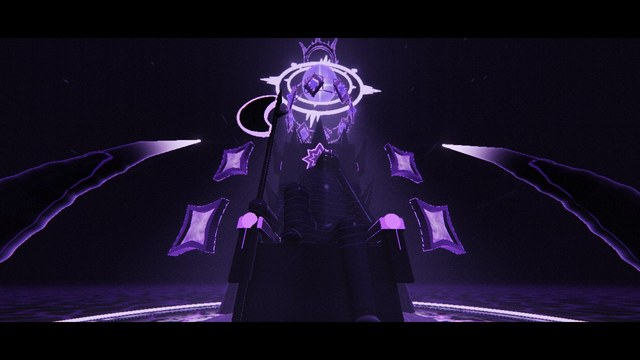
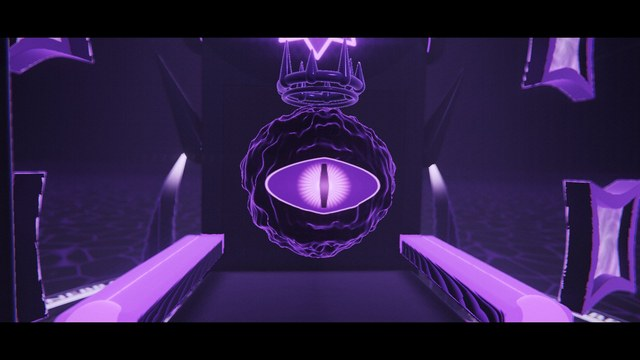
MONARCH: 사람을 빼고 추상적으로 재구성
- 앉은 인물 삭제 → 빈 옥좌 위로 어둠이 모여 검은 공허(잘게 일렁이는 구, 보라 가장자리)가 되고,
  12.6 그 속에서 세로로 찢어진 동공의 보라 눈이 뜨인다(홍채 결 · 과충전 빛). 공허 위에는 작은 왕관이 떠서 돈다
- 도끼는 손 없이 옥좌 곁 단상에 박혀 우뚝 선 기념비로
- 얼굴 클로즈업 → 공허와 눈 클로즈업. 공허는 빛을 먹는다(반사 · 스펙큘러 없음)
- 4K 녹화 12~25ms

diff --git a/public/monarch_gl.html b/public/monarch_gl.html
@@ -15,12 +15,12 @@
 <script>
 "use strict";
 /* ═══════════════════════════════════════════════════════════════
-   MONARCH — 어둠의 옥좌에 앉은 거대한 지배자 (실시간 3D · 대사 없음 · 30초 · 4K 저장)
+   MONARCH — 빈 옥좌의 거대한 지배자, 사람 없이 추상적으로 (실시간 3D · 대사 없음 · 30초 · 4K 저장)
    음원: tools/make_monarch_audio.py 로 직접 합성한 오리지널(합창 · 오르간 · 금관 · 팀파니 · 타이코 · 천둥). 시각 상수 T 는 그 스크립트와 같다.
      0      어둠 — 번개가 금 간 바닥(보라 · 연보라 균열, 바깥의 글자 고리)과 X 자로 놓인 네 개의 거대한 뿔을 비춘다
      4.0    떠 있는 차원문 — 검은 흰자에 보라 눈동자, 눈이 떠져 오른쪽에서 왼쪽으로 훑고 사라진다
-     7.5    발치에서 올려다보며 크레인 업 — 사람보다 훨씬 큰 도끼 · 옥좌 · 앉은 지배자 · 8각 별 문장
-     11.5   얼굴 — 그림자 속에서 오른눈이 보라로 타오른다(번개 · 총주 일격)
+     7.5    발치에서 올려다보며 크레인 업 — 단상에 박혀 우뚝 선 거대한 도끼 · 빈 옥좌 · 8각 별 문장 · 옥좌 위로 어둠이 모이기 시작
+     11.5   검은 공허 — 일렁이는 공허 위에 왕관이 떠 돌고, 12.6 그 속에서 세로로 찢어진 보라 눈이 뜨인다(번개 · 총주 일격)
      14.5   위로 — 반시계로 도는 왕관(8개의 남보라 다이아) → 서로 반대로 도는 두 후광 → 흰 별을 품은 거대한 구슬이 빛의 장막을 내린다
      18.5   땅에서 올려다본 전체 — 100m 가 넘는 지배자, 여섯 뿔 왕관 · 연보라 고리 · 20.5 네 차원문의 눈이 동시에 뜨여 이쪽을 본다
      22.5   권능 — 23.8 충격파가 바닥을 쓸고, 검은 · 보라 번개 폭풍
@@ -40,7 +40,7 @@ const cross = (a, b) => [a[1] * b[2] - a[2] * b[1], a[2] * b[0] - a[0] * b[2], a
 function camera(pos, tgt, roll) { const f = norm(sub(tgt, pos)), r0 = norm(cross(f, [0, 1, 0])), u0 = cross(r0, f), c = Math.cos(roll), s = Math.sin(roll); return { pos, r: [r0[0] * c + u0[0] * s, r0[1] * c + u0[1] * s, r0[2] * c + u0[2] * s], u: [u0[0] * c - r0[0] * s, u0[1] * c - r0[1] * s, u0[2] * c - r0[2] * s], f }; }
 
 const T = { L1: .6, L2: 2.9, PORT: 4.0, EYEO: 5.1, EYEC: 7.0, RISE: 7.5, FACE: 11.5, IGNITE: 12.6, HALO: 14.5, WIDE: 18.5, STARE: 20.5, POWER: 22.5, SHOCK: 23.8, HERO: 26.0, TITLE: 26.6, END: 30.0 };
-const ORB = [0, 76, -6], TC = [0, 0, -3], EYE = [1.13, 34.51, -.8];
+const ORB = [0, 76, -6], TC = [0, 0, -3], VC = [0, 23, -4], EYE = [0, 23, 2.4];
 const PORTS = [[-25, 18, -2], [25, 18, -2], [-25, 38, -7], [25, 38, -7]];
 const BOLTS = [[T.L1, 1], [T.L2, 2], [8.8, 3], [T.IGNITE, 4], [16.2, 5], [T.STARE, 6], [T.SHOCK, 7], [27.4, 8]];
 { const r = rng(99); for (let t = T.POWER + .1; t < T.HERO - .2; t += .18 + r() * .3) BOLTS.push([t, 20 + Math.floor(r() * 900)]); BOLTS.sort((a, b) => a[0] - b[0]); }
@@ -53,7 +53,7 @@ let Wd = 0, Hd = 0, U = 0, DPR = 1, DPR_CAP = 2, SCALE = 1, slow = 0, time = 0, 
 /* ═════════════════ 셰이더 ═════════════════ */
 const FS_SCENE = `#version 300 es
 precision highp float; in vec2 vUv; out vec4 o;
-uniform vec2 uRes; uniform float uT, uFocal, uEyeK, uFlash, uShock, uPower, uCrownA, uHaloA, uTopA, uOrbI, uCrackK; uniform vec3 uCamPos; uniform mat3 uCam; uniform int uZero; uniform vec2 uPort[4]; uniform sampler2D uAtlas;
+uniform vec2 uRes; uniform float uT, uFocal, uEyeK, uVoidK, uFlash, uShock, uPower, uCrownA, uHaloA, uTopA, uOrbI, uCrackK; uniform vec3 uCamPos; uniform mat3 uCam; uniform int uZero; uniform vec2 uPort[4]; uniform sampler2D uAtlas;
 ${CSGL.NOISE}
 const vec3 ORB = vec3(${ORB.join(".,")}.), TC = vec3(0., 0., -3.), ORBC = vec3(.6, .46, 1.), EYEP = vec3(${EYE.join(", ")});
 float gE = 1e9; bool gSh = false;
@@ -69,31 +69,19 @@ float sdRC(vec3 p, vec3 a, vec3 b, float r1, float r2){ vec3 ba = b - a; float l
   if (sign(z) * a2 * z2 > k) return sqrt(x2 + z2) * il2 - r2; if (sign(y) * a2 * y2 < k) return sqrt(x2 + y2) * il2 - r1; return (sqrt(x2 * a2 * il2) + y * rr) * il2 - r1; }
 float sdStarN(vec2 p, float r, float n, float m){ float an = 3.141593 / n, en = 3.141593 / m; vec2 acs = vec2(cos(an), sin(an)), ecs = vec2(cos(en), sin(en)); float bn = mod(atan(p.x, p.y), 2. * an) - an;   // n 각 별
   p = length(p) * vec2(cos(bn), abs(sin(bn))); p -= r * acs; p += ecs * clamp(-dot(p, ecs), 0., r * acs.y / ecs.y); return length(p) * sign(p.x); }
-/* ── 지배자: 앉은 자세(오른다리를 세우고, 왼손으로 머리를 받치고, 오른손엔 도끼) ── */
-float figure(vec3 p){
-  float d = sdEll(p - vec3(0., 15., -4.), vec3(6.5, 3.2, 4.5));
-  d = smin(d, sdRC(p, vec3(0., 16., -4.6), vec3(0., 25.5, -5.), 4.8, 6.), 1.5);
-  d = smin(d, sdEll(p - vec3(0., 24.5, -3.6), vec3(6.6, 4.6, 3.4)), 1.2);
-  d = smin(d, sdCap(p, vec3(.8, 28., -4.6), vec3(1.5, 31.3, -3.9), 1.5), .8);
-  vec3 hq = p - vec3(2., 34., -3.2); hq.xy = rot(-.18) * hq.xy; float hd = sdEll(hq, vec3(2.3, 2.9, 2.6));                                     // 투구: 눈높이의 깊은 틈 · 콧대 · 뺨가리개
-  hd = min(hd, sdRC(hq, vec3(0., 1.9, 2.1), vec3(0., -1.3, 2.75), .42, .22)); hd = smin(hd, sdEll(vec3(abs(hq.x) - 1.3, hq.y + 1.1, hq.z - 1.4), vec3(1., 1.5, 1.2)), .3);
-  hd = min(hd, sdRC(vec3(abs(hq.x), hq.y, hq.z), vec3(1.6, 1.2, 1.7), vec3(2.5, 1.9, .2), .45, .15)); hd = max(hd, -sdBox(hq - vec3(0., .5, 2.4), vec3(2.2, .3, 1.2))); d = smin(d, hd, .35);
-  float pa = min(sdEll(p - vec3(7., 27.6, -4.6), vec3(3.3, 2.4, 3.2)), sdEll(p - vec3(-7., 27.6, -4.6), vec3(3.3, 2.4, 3.2))); d = smin(d, pa, .5);
-  d = smin(d, sdRC(p, vec3(-7.6, 26.6, -4.6), vec3(-10., 17.9, -1.2), 2., 1.6), .8); d = smin(d, sdRC(p, vec3(-10., 17.9, -1.2), vec3(-10.5, 18.4, 5.8), 1.6, 1.3), .6); d = smin(d, sdEll(p - vec3(-10.6, 18.5, 7.), vec3(1.5, 1.4, 1.3)), .5);
-  d = smin(d, sdRC(p, vec3(7.6, 26.6, -4.6), vec3(10.2, 17.9, -1.6), 2., 1.6), .8); d = smin(d, sdRC(p, vec3(10.2, 17.9, -1.6), vec3(4.6, 31.2, -1.6), 1.6, 1.25), .7); d = smin(d, sdEll(p - vec3(4.1, 32.2, -1.5), vec3(1.2, 1.5, 1.1)), .6);
-  d = smin(d, sdRC(p, vec3(3.6, 14.6, -2.), vec3(4.5, 14.8, 7.), 2.6, 2.1), 1.); d = smin(d, sdRC(p, vec3(4.5, 14.8, 7.), vec3(4.8, 4.2, 8.4), 2.1, 1.5), .7); d = smin(d, sdEll(p - vec3(4.9, 3.6, 10.), vec3(1.5, 1., 2.6)), .5);
-  d = smin(d, sdRC(p, vec3(-3.6, 14.6, -2.), vec3(-4.6, 21.6, 5.6), 2.6, 2.1), 1.); d = smin(d, sdRC(p, vec3(-4.6, 21.6, 5.6), vec3(-4.8, 14.5, 4.6), 2.1, 1.5), .7); d = smin(d, sdEll(p - vec3(-4.9, 13.9, 6.2), vec3(1.5, 1., 2.6)), .5);
-  d = smin(d, sdRC(p, vec3(0., 28.5, -7.2), vec3(0., 7., -9.6), 7., 10.), 1.8);                                                            // 등 뒤로 흘러내린 망토
-  float hood = max(sdEll(hq - vec3(0., .5, -.5), vec3(3.3, 3.9, 3.5)), -sdEll(hq - vec3(0., -.3, 1.3), vec3(2.5, 3.1, 3.2))); d = min(d, max(hood, hq.y - 3.2 + .6 * hq.z));   // 두건(앞은 트이고 얼굴은 그 안의 어둠)
-  return d;
-}
-float fcrown(vec3 p){ vec3 q = p - vec3(2.35, 36.7, -3.2); q.xy = rot(-.18) * q.xy; float r = length(q.xz), ring = length(vec2(r - 2.15, q.y)) - .32;   // 머리 위의 왕관
-  float an = atan(q.z, q.x), sc = 6.2832 / 8., a2 = mod(an + sc * .5, sc) - sc * .5; vec3 l = vec3(cos(a2) * r - 2.15, q.y, sin(a2) * r); return min(ring, sdRC(l, vec3(0.), vec3(0., 1.9, 0.), .38, .03)); }
-vec2 axe(vec3 p){ vec3 q = p - vec3(-10.6, 0., 7.);                                                                                         // 한쪽 날 전투 도끼
-  float h = sdCap(p, vec3(-10.6, 2.8, 7.), vec3(-10.6, 47., 7.), .5); h = min(h, length(p - vec3(-10.6, 2.6, 7.)) - .85);
+/* ── 지배자의 현현: 사람 대신, 빈 옥좌 위로 모여드는 검은 공허 · 그 속에서 뜨이는 보라 눈 · 공허 위에 떠 도는 왕관 ── */
+const vec3 VC = vec3(0., 23., -4.);
+float voidSph(vec3 p){ vec3 q = p - VC; float R = 6.2 * uVoidK, lq = length(q); if (R < .05) return lq + 1.;
+  float w = ((noise(q.xy * .9 + vec2(uT * .9, 0.)) + noise(q.yz * 1.1 - vec2(uT * .7)) - 1.) * .55 + (noise(q.xz * 2.3 + uT * 1.4) - .5) * .25) * uVoidK * smoothstep(.3, 1., lq / R);   // 가장자리가 잘게 일렁인다
+  return (lq - R + w) * .7; }
+float vcrown(vec3 p){ float k = max(uVoidK, .02); vec3 q = (p - (VC + vec3(0., 8.4 + .35 * sin(uT * 1.3), 0.))) / k; q.xz = rot(-uT * .5) * q.xz; float r = length(q.xz), ring = length(vec2(r - 3.3, q.y)) - .38;
+  ring = min(ring, length(vec2(r - 3.1, q.y + .9)) - .18); float an = atan(q.z, q.x), sc = 6.2832 / 8., a2 = mod(an + sc * .5, sc) - sc * .5; vec3 l = vec3(cos(a2) * r - 3.3, q.y, sin(a2) * r);
+  float sp = sdRC(l, vec3(0.), vec3(0., mod(floor(an / sc + .5), 2.) < .5 ? 3.2 : 2., 0.), .52, .04); return min(ring, sp) * k; }
+vec2 axe(vec3 p){ vec3 q = p - vec3(-16.5, 0., 6.);                                                                                         // 한쪽 날 전투 도끼
+  float h = sdCap(p, vec3(-16.5, 1., 6.), vec3(-16.5, 47., 6.), .5); h = min(h, max(length(p.xz - vec2(-16.5, 6.)) - 2.4, abs(p.y - 1.9) - .8) - .1);   // 단상에 박힌 자리
   vec2 b = vec2(q.x, q.y - 41.5); float bl2 = max(max(length(b - vec2(-2.2, 0.)) - 6.6, -(length(b - vec2(3.4, 0.)) - 5.6)), b.x + .3);
   float th = .55 - .45 * clamp((-b.x - .3) / 7., 0., 1.), blade = max(bl2, abs(q.z) - th) * .8;
-  float sp = min(sdRC(p, vec3(-10.6, 46.5, 7.), vec3(-10.6, 51.5, 7.), .75, .05), sdRC(p, vec3(-10.3, 41.5, 7.), vec3(-8., 42.4, 7.), .8, .12));
+  float sp = min(sdRC(p, vec3(-16.5, 46.5, 6.), vec3(-16.5, 51.5, 6.), .75, .05), sdRC(p, vec3(-16.2, 41.5, 6.), vec3(-13.9, 42.4, 6.), .8, .12));
   vec2 r = vec2(min(h, sp), 3.); if (blade < r.x) r = vec2(blade, bl2 > -.45 ? 3.5 : 3.); return r; }
 float throne(vec3 p){
   float d = sdRBox(p - vec3(0., 8., -3.), vec3(11., 5.2, 8.5), .6);
@@ -135,9 +123,9 @@ float topCrown(vec3 p){ vec3 q = p - vec3(0., 95., -6.); float bd = length(q) - 
   return min(ring, hn); }
 vec2 map(vec3 p){
   vec2 r = vec2(1e9, -1.); gE = 1e9;
-  float bd = sdBox(p - vec3(-2.5, 29., -3.), vec3(20., 34., 16.));
-  if (bd < 1.){ r = opU(r, vec2(throne(p), 1.)); r = opU(r, vec2(figure(p), 2.)); r = opU(r, axe(p)); r = opU(r, vec2(fcrown(p), 16.));
-    float ey = length(p - EYEP) - .36; r = opU(r, vec2(ey, 13.)); gE = min(gE, ey + .2 / max(uEyeK, .05));
+  float bd = sdBox(p - vec3(-4.5, 29., -3.), vec3(22.5, 34., 16.));
+  if (bd < 1.){ r = opU(r, vec2(throne(p), 1.)); r = opU(r, axe(p));
+    if (uVoidK > .01){ float vd = voidSph(p); r = opU(r, vec2(vd, 17.)); r = opU(r, vec2(vcrown(p), 16.)); }
     float gem = length(vec3(abs(p.x) - 11.4, p.y - 16.2, p.z - 6.9)) - 1.25; r = opU(r, vec2(gem, 14.)); }
   else r = opU(r, vec2(bd, -1.));
   r = opU(r, vec2(dais(p), 15.)); r = opU(r, vec2(horn(p), 4.));
@@ -184,7 +172,7 @@ vec3 shade(vec3 p, vec3 n, vec3 rd, float id, float t){
       em += vec3(.55, .2, 1.) * (smoothstep(.12, 0., abs(st) - .12) * 1.6 + smoothstep(.1, -.3, st) * .18 + smoothstep(.1, 0., abs(st2) - .08) * 1.1) * (.8 + .2 * sin(uT * 2.)); }
     float edge = smoothstep(.06, 0., abs(abs(p.x) - 11.4) - 1.85) * step(15., p.y) * step(p.y, 17.) + smoothstep(.1, 0., abs(abs(p.x) - 11.8)) * step(12., p.y) * step(p.y, 48.) * step(-9.3, p.z);
     em += vec3(.4, .12, .95) * edge * .9; }
-  else if (id < 2.5){ alb = vec3(.075, .062, .095); rough = .32; metal = .7; vec3 fq = p - vec3(2., 34., -3.2); float face = smoothstep(3.2, 2.2, length(fq.xy * vec2(1., .9))) * step(-1.5, fq.z); alb *= 1. - face * .9; float seam = smoothstep(.05, 0., .5 - abs(fract(p.y * .8 + sin(p.x * .6) * .3) - .5)); em += vec3(.35, .1, .8) * seam * .1 * step(12., p.y) * step(p.y, 30.) * (1. - face); }
+  else if (id < 2.5){ alb = vec3(.075, .062, .095); rough = .32; metal = .7; float face = 0.; float seam = smoothstep(.05, 0., .5 - abs(fract(p.y * .8 + sin(p.x * .6) * .3) - .5)); em += vec3(.35, .1, .8) * seam * .1 * step(12., p.y) * step(p.y, 30.) * (1. - face); }
   else if (id < 3.2){ alb = vec3(.05, .045, .06); rough = .22; metal = 1.; }
   else if (id < 3.7){ alb = vec3(.06, .05, .08); rough = .1; metal = 1.; em += vec3(.6, .3, 1.) * 1.2; }
   else if (id < 4.5){ vec3 q = p - TC; float hgt = clamp(p.y / 25., 0., 1.); alb = mix(vec3(.08, .02, .2), vec3(.3, .15, .55), hgt); rough = .15;                  // 보라 수정 뿔
@@ -209,12 +197,20 @@ vec3 shade(vec3 p, vec3 n, vec3 rd, float id, float t){
   else if (id < 13.5){ alb = vec3(0.); em += vec3(.85, .35, 1.) * 9. * uEyeK + vec3(.02); }
   else if (id < 14.5){ alb = vec3(.1, .02, .25); rough = .05; em += vec3(.5, .15, 1.) * 1.2; }
   else if (id < 15.5){ alb = vec3(.02, .018, .026); rough = .5; float r = length(p.xz - TC.xz); em += vec3(.4, .12, .9) * smoothstep(.04, 0., .5 - abs(fract(r * .5) - .5)) * .3 * uCrackK; }
-  else { alb = vec3(.35, .2, .55); rough = .2; metal = 1.; }
+  else if (id < 16.5){ alb = vec3(.35, .2, .55); rough = .2; metal = 1.; em += vec3(.5, .25, 1.) * pow(1. - ndv, 3.) * .6; }
+  else { vec3 q = p - VC; float R = 6.2 * uVoidK; vec2 e = q.xy / max(R, .1); alb = vec3(0.); rough = .9; metal = 0.;                        // 공허: 검은 몸 · 보라 가장자리 · 속에서 도는 빛
+    em = vec3(.002, 0., .005) + vec3(.5, .18, 1.) * pow(1. - ndv, 5.) * .9 + vec3(.25, .06, .6) * pow(fbm(n.xy * 3.5 + vec2(uT * .5, -uT * .3)), 5.) * .25;
+    float op = min(uEyeK, 1.), over = max(uEyeK - 1., 0.);
+    if (q.z > 0. && op > .005){ float sh = pow(abs(e.x) / .64, 1.25) + pow(abs(e.y) / (.3 * op), 2.);                                                     // 세로로 찢어진 동공의 보라 눈
+      if (sh < 1.){ float ir = length(e * vec2(1., 1.15)), fib = .75 + .25 * sin(atan(e.y, e.x) * 38. + fbm(e * 12.) * 4.); em = vec3(.02, 0., .04) + vec3(.8, .3, 1.) * smoothstep(.31, .16, ir) * fib * (1.4 + 2.5 * over) + vec3(1., .8, 1.) * smoothstep(.11, .03, ir) * (.45 + 1.5 * over) + vec3(.35, .1, .8) * smoothstep(.16, .3, ir) * .25;
+        float slit = smoothstep(.012, 0., abs(e.x) - (.022 + .03 * (1. - abs(e.y) / .24))) * step(abs(e.y), .24); em *= 1. - slit * .97; }
+      em += vec3(.85, .45, 1.) * smoothstep(.05, 0., abs(sh - 1.)) * (.9 + 1.5 * over); } }
   vec3 f0 = mix(vec3(.04), alb * 3. + .05, metal), spec = f0 * pow(max(dot(n, hv), 0.), mix(900., 20., rough)) * (1. - rough) * 4.;
+  if (id > 16.5) { spec = vec3(0.); rim = vec3(0.); }
   vec3 col = (alb * (1. - metal) * ndl + spec * ndl) * li * sh + alb * amb * ao + rim * ao + flash * alb * 6. + em;
   vec3 kd = normalize(vec3(.4, .55, .75)); float nk = max(dot(n, kd), 0.);                                                                      // 앞쪽 위에서 오는 은은한 보랏빛 달빛(형태가 읽히게)
-  col += (alb * (1. - metal * .6) * nk * .7 + f0 * pow(max(dot(n, normalize(kd - rd)), 0.), mix(500., 14., rough)) * (1. - rough) * 1.6) * vec3(.34, .27, .62) * ao * (id < 3.7 || id > 14.5 ? 1. : .3);
-  col += sky(reflect(rd, n)) * fres * (1. - rough) * .14 * ao;
+  col += (alb * (1. - metal * .6) * nk * .7 + f0 * pow(max(dot(n, normalize(kd - rd)), 0.), mix(500., 14., rough)) * (1. - rough) * 1.6) * vec3(.34, .27, .62) * ao * (id > 16.5 ? 0. : id < 3.7 || id > 14.5 ? 1. : .3);
+  col += sky(reflect(rd, n)) * fres * (1. - rough) * .14 * ao * step(id, 16.5);
   return col;
 }
 vec3 veil(vec3 ro, vec3 rd, float tmax){                                                                                                       // 구슬이 내리는 빛의 장막
@@ -298,13 +294,13 @@ function state(t) {
   if (t < T.PORT) { const k = seg(t, 0, T.PORT); cam = camera(add(mix3([16, 1.1, 84], [12, 1.5, 62], eOut(k)), mul(br, .3)), mix3([5, .5, 22], [2, 4, 8], k), .01); S.focal = 1.35; S.focus = 30; S.aper = .3; S.crackK = .15 + .85 * eInOut(seg(t, .5, 3.5)); S.orbI = .25 + .5 * k; S.rays = .2; }
   else if (t < T.RISE) { const k = seg(t, T.PORT, T.RISE), P0 = PORTS[1]; cam = camera(add(mix3([36, 17.5, 26], [31.5, 18.2, 18.5], eOut(k)), mul(br, .2)), add(P0, [0, .2, 0]), 0); S.focal = 1.55; S.focus = 20; S.aper = .45; S.orbI = .7; S.rays = .15; }
   else if (t < T.FACE) { const k = eInOut(seg(t, T.RISE, T.FACE)); cam = camera(add(mix3([-2, 1.8, 40], [-1, 8, 34], k), mul(br, .3)), mix3([-4, 8, 5], [0, 30, -3], k), 0); S.focal = .95; S.focus = 35; S.aper = .15; }
-  else if (t < T.HALO) { const k = eOut(seg(t, T.FACE, T.HALO)); cam = camera(add(mix3([-5.5, 34.8, 12.5], [-3.6, 34.6, 8.6], k), mul(br, .05)), [1.2, 34.2, -2.], .03); S.focal = 1.75; S.focus = 10.5; S.aper = .7; S.rays = 0; }
+  else if (t < T.HALO) { const k = eOut(seg(t, T.FACE, T.HALO)); cam = camera(add(mix3([-4, 25.5, 30], [-1.6, 24.2, 21], k), mul(br, .06)), [0, 23.2, -2], .02); S.focal = 1.6; S.focus = lerp(33, 24, k); S.aper = .6; S.rays = 0; }   // 공허와 눈
   else if (t < T.WIDE) { const k = eInOut(seg(t, T.HALO, T.WIDE)); cam = camera(add(mix3([14, 46, 34], [9, 84, 36], k), mul(br, .3)), mix3([0, 56, -6], [0, 78, -6], k), .03); S.focal = 1.15; S.focus = 42; S.aper = .12; S.rays = .3; }
   else if (t < T.POWER) { const k = seg(t, T.WIDE, T.POWER); cam = camera(add(mix3([-7, 1.6, 36], [-4.5, 1.8, 30], eOut(k)), mul(br, .2)), [0, 46, -6], 0); S.focal = 1.1; S.focus = 42; S.aper = .05; S.rays = .35; }
   else if (t < T.HERO) { const a = lerp(.55, 1.15, seg(t, T.POWER, T.HERO)), sh = 1.2 * pulse(t, T.SHOCK, .02, 1.) ; cam = camera(add([Math.sin(a) * 74, 13, Math.cos(a) * 74 - 3], [(h1(t * 60) - .5) * sh, (h1(t * 60 + 3) - .5) * sh, 0]), [0, 32, -6], .02); S.focal = 1.1; S.focus = 74; S.aper = .06; S.rays = .5; }
   else { const k = eOut(seg(t, T.HERO, T.END)); cam = camera(add(mix3([0, 2.5, 68], [0, 3.2, 57], k), mul(br, .15)), [0, 46, -6], 0); S.focal = 1.02; S.focus = 60; S.aper = .06; S.rays = .35; }
   S.cam = cam;
-  S.eyeK = t >= T.IGNITE ? 1 + 1.6 * pulse(t, T.IGNITE, .02, .9) : 0;
+  S.voidK = eOut(seg(t, 10.4, 12.2)); S.eyeK = t >= T.IGNITE ? eOut(seg(t, T.IGNITE, T.IGNITE + .22)) + 1.4 * pulse(t, T.IGNITE, .02, .9) : 0;   // 빈 옥좌 위로 공허가 모이고 → 눈이 뜨인다
   const pv = (i, o, l) => { S.port[i * 2] = o; S.port[i * 2 + 1] = l; };                                                            // 차원문 눈: 뜸 · 오른쪽→왼쪽
   { const o = Math.min(eOut(seg(t, T.EYEO, T.EYEO + .35)), 1 - eIn(seg(t, T.EYEC - .3, T.EYEC))); pv(1, o, lerp(1, -1, eInOut(seg(t, T.EYEO + .45, T.EYEC - .45)))); }
   if (t >= T.STARE) { for (let i = 0; i < 4; i++) { const o = t < T.POWER ? eOut(seg(t, T.STARE, T.STARE + .25)) : Math.max(0, Math.sin((t - T.POWER) * 1.4 + i * 1.7)) > .35 ? 1 : 0; pv(i, o, t < T.POWER ? 0 : Math.sin((t - T.POWER) * .9 + i) ); } }
@@ -322,7 +318,7 @@ function render(t) {
   const prog = P.scene(), u = prog.u, f1 = (n, v) => { if (u[n] != null) gl.uniform1f(u[n], v || 0); };
   X.pass(prog, RT.scene, () => { gl.uniform2f(u.uRes, sw, sh); f1("uT", t); if (u.uZero != null) gl.uniform1i(u.uZero, 0); gl.uniform3f(u.uCamPos, ...S.cam.pos); gl.uniformMatrix3fv(u.uCam, false, new Float32Array([...S.cam.r, ...S.cam.u, ...S.cam.f])); f1("uFocal", S.focal);
     if (u.uPort != null) gl.uniform2fv(u.uPort, S.port); if (u.uAtlas != null) X.bindTex(4, atlasTex, u.uAtlas);
-    for (const [n, v] of [["uEyeK", S.eyeK], ["uFlash", S.flash], ["uShock", S.shock], ["uPower", S.power], ["uCrownA", S.crownA], ["uHaloA", S.haloA], ["uTopA", S.topA], ["uOrbI", S.orbI], ["uCrackK", S.crackK]]) f1(n, v); });
+    for (const [n, v] of [["uEyeK", S.eyeK], ["uVoidK", S.voidK], ["uFlash", S.flash], ["uShock", S.shock], ["uPower", S.power], ["uCrownA", S.crownA], ["uHaloA", S.haloA], ["uTopA", S.topA], ["uOrbI", S.orbI], ["uCrackK", S.crackK]]) f1(n, v); });
   const lp = proj(S, ORB), bloomTex = X.bloom(RT.scene.tex, 1.15), raysTex = X.rays(lp ? clamp(lp[0] / Wd) : .5, lp ? clamp(1 - lp[1] / Hd) : 1.1, .92), r0 = rng(Math.floor(t * 60)), hit = S.shake;
   X.pass(P.final(), null, (u2) => { X.bindTex(0, RT.scene.tex, u2.uScene); X.bindTex(1, bloomTex, u2.uBloom); X.bindTex(2, txtTex, u2.uTxt); X.bindTex(3, raysTex, u2.uRays); gl.uniform2f(u2.uRes, pw, ph); gl.uniform1f(u2.uT, t);
     gl.uniform2f(u2.uShake, (r0() - .5) * hit * .02, (r0() - .5) * hit * .02); gl.uniform1f(u2.uZoom, 1 + .02 * hit); gl.uniform1f(u2.uCA, .0012 + .005 * hit);
@@ -333,7 +329,7 @@ function render(t) {
 const player = CSUI.create({
   stage: $("cs"), audio: bgm, volume: .9, duration: T.END, theme: "monarch", capBlend: false, recW: 3840, recH: 2160, maxMB: 100,
   no: "08", title: "MONARCH", sub: "모나크", hero: "/thumbs/monarch_hero.jpg",
-  tagline: "어둠의 옥좌에 앉은 거대한 지배자.\n왕관 위의 두 후광, 흰 별을 품은 구슬 — 모든 것이 그 아래에 있다.",
+  tagline: "빈 옥좌 위로 모여든 공허, 그 속에서 뜨이는 하나의 눈.\n왕관 위의 두 후광, 흰 별을 품은 구슬 — 모든 것이 그 아래에 있다.",
   meta: [["0:30", "Length"], ["4K · 3D", "Renderer"], ["Original", "Score"]],
   chapters: [{ t: 0, name: "the floor" }, { t: T.PORT, name: "the eye" }, { t: T.RISE, name: "the throne" }, { t: T.FACE, name: "awaken" }, { t: T.HALO, name: "the crown" }, { t: T.WIDE, name: "dominion" }, { t: T.POWER, name: "power" }, { t: T.HERO, name: "MONARCH" }],
   captions: [],

diff --git a/public/cutscenes.html b/public/cutscenes.html
@@ -94,7 +94,7 @@ const CUTSCENES = [
     desc: "아무것도 특별하지 않은 아침이 조금씩 망가진다. 햇살 드는 방에서 눈을 뜨면 알람시계가 88:88 로 깨지고, 컵이 조각나 사라지고, 책장이 넘어가며 글자가 깨지고, 컴퓨터에 오류창이 쏟아진다. 창밖 하늘이 검정·보라 잡음으로 갈라지고 — 눈을 감았다 뜨면 글리치 세계. 공허 하늘에 거대한 GLITCH 가 떠올라 모든 것을 삼키고 — 마지막엔 보고 있는 화면까지 먹혀 닫힌다. 1 in !@#$%^&*(). 4K 저장.",
     tags: ["WebGL2", "3D 레이마칭", "1인칭 서사"], needsAudio: true },
   { id: "monarch", title: "MONARCH", ko: "모나크", page: "/monarch_gl.html", kit: true, thumb: "/thumbs/monarch.jpg", dur: "0:30",
-    desc: "어둠의 옥좌에 앉은 거대한 지배자. 번개가 금 간 바닥과 X 자의 뿔을 비추고, 떠 있는 차원문에서 검은 눈이 훑고 지나간다. 발치에서 올려다보면 도끼를 쥐고 앉은 모나크 — 그림자 속에서 오른눈이 타오르고, 반시계로 도는 왕관 위 두 후광 사이에서 흰 별을 품은 구슬이 빛의 장막을 내린다. 100m 가 넘는 압도. 4K 저장.",
+    desc: "어둠의 옥좌에 앉은 거대한 지배자. 번개가 금 간 바닥과 X 자의 뿔을 비추고, 떠 있는 차원문에서 검은 눈이 훑고 지나간다. 발치에서 올려다보면 단상에 박힌 거대한 도끼와 빈 옥좌 — 그 위로 모여든 검은 공허 속에서 보라 눈이 뜨이고, 반시계로 도는 왕관 위 두 후광 사이에서 흰 별을 품은 구슬이 빛의 장막을 내린다. 100m 가 넘는 압도. 4K 저장.",
     tags: ["WebGL2", "3D 레이마칭", "오리지널 음악"], needsAudio: true },
 ];
 
